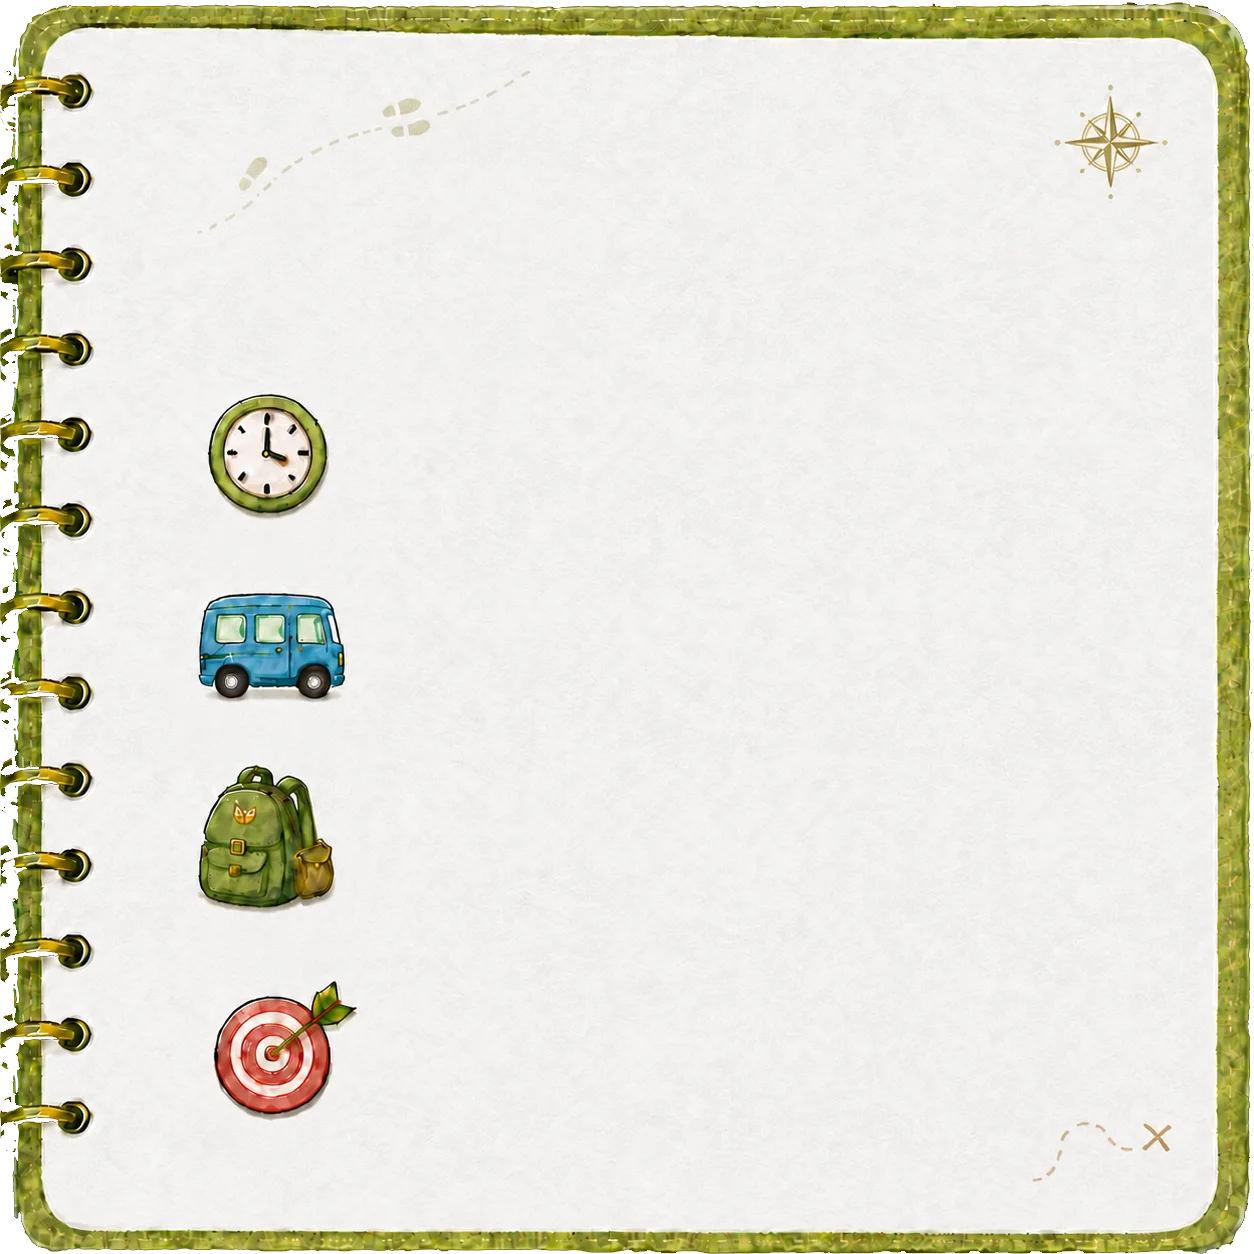
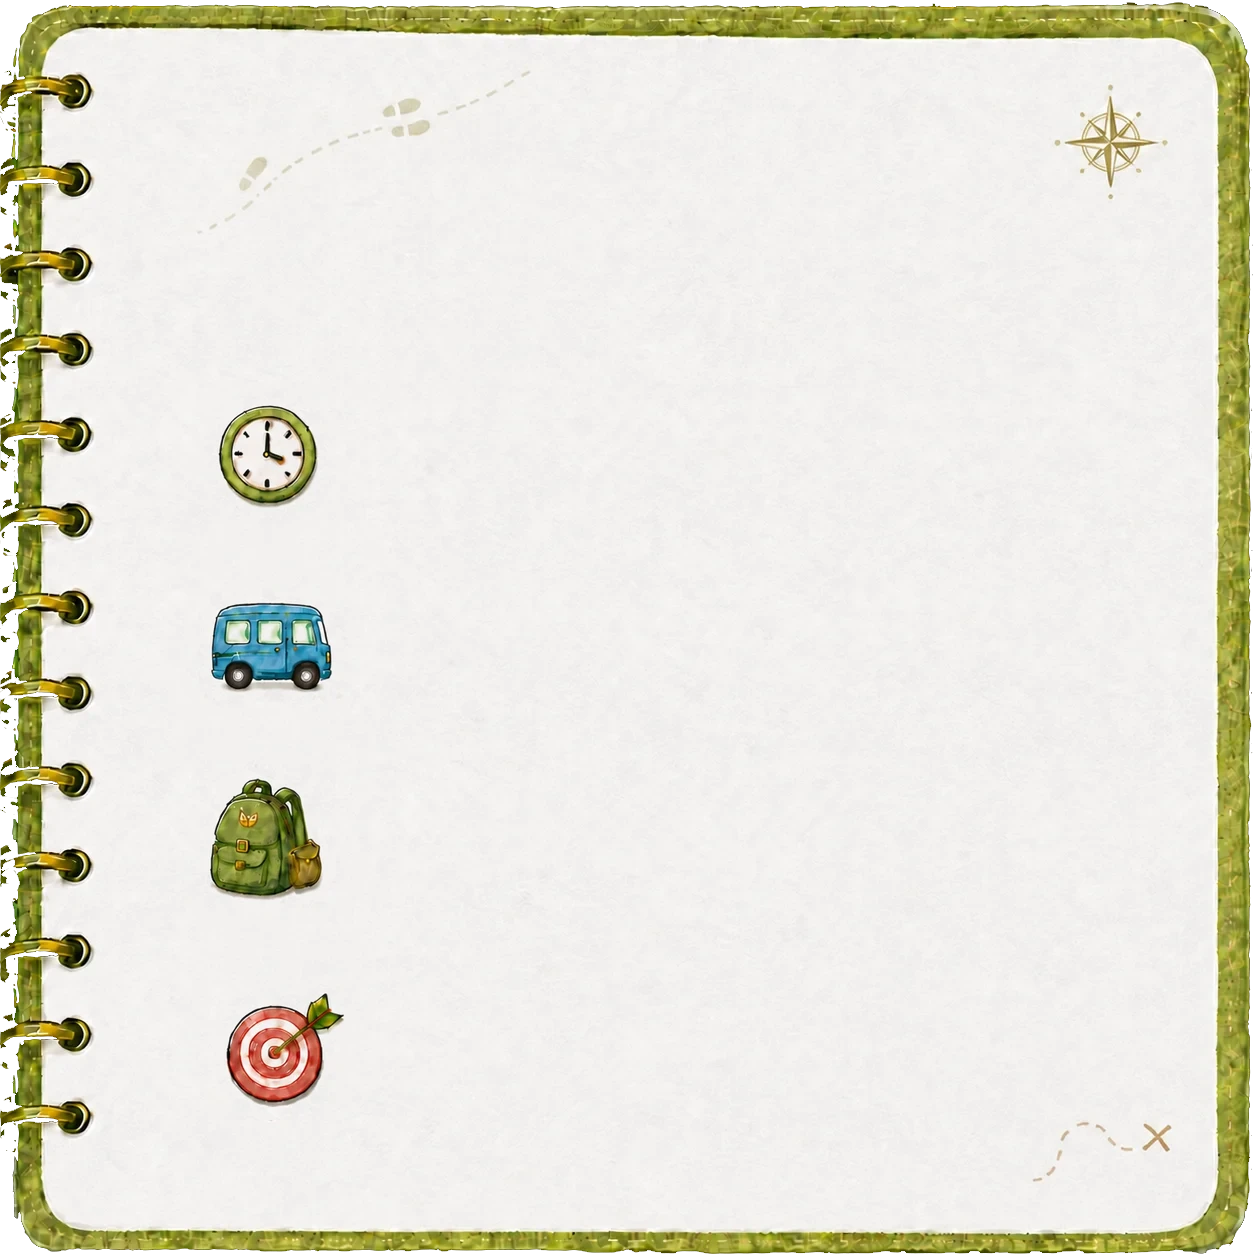
탐험일지 카드 시계·버스·가방·과녁 그림을 82%로 줄임 (#967)
네 그림은 일지 카드 원화에 박혀 있어 원화에서 떼어 각자 중심 기준으로 줄이고, 뗀 자리는 같은 줄 빈 종이로 메웠다. img ?v=2.

Claude-Session: https://claude.ai/code/session_018maNuYqDfFyRSe9uKpZhPR

diff --git a/src/components/AdventureJournalCard.jsx b/src/components/AdventureJournalCard.jsx
@@ -81,7 +81,7 @@ export default function AdventureJournalCard({
       style={{ position: "relative", width: "100%", aspectRatio: "1 / 1", marginBottom: 14, touchAction: "pan-y" }}>
 
       {/* v6 스프링 노트 원화 (1254×1254) — 왼쪽 아이콘 네 개만 있고 글자는 전부 앱이 얹는다 */}
-      <img src="assets/journal-card.webp" alt="" draggable={false}
+      <img src="assets/journal-card.webp?v=2" alt="" draggable={false}
         style={{ position: "absolute", inset: 0, width: "100%", height: "100%", display: "block",
           filter: "drop-shadow(0 6px 14px rgba(74,90,37,0.22))" }} />
 

diff --git a/art-src/README.md b/art-src/README.md
@@ -403,7 +403,7 @@ getBoundingClientRect로 재서 정한다. 2026-08-05 점검에서 이 기준을
 | map-bld-v9/cottage-src.webp | 지도 학원 건물 v9-2 (주황 기와 오두막 — 굴뚝·돌계단·항아리). 518×490 → 배포 340×322. 크림 원 뚫어서 탑재. cx 40.9 · cy 58.5 · d 38.9 · k 0.95 | map-bld-stonearch2.webp |
 | map-bld-v9/stall-src.webp | 지도 학원 건물 v9-3 (나무 가판대 — 청록 차양·랜턴·물통·나무통). 503×501 → 배포 340×339. 크림 원 뚫어서 탑재. cx 45.3 · cy 61.6 · d 37.0 · k 0.91 | map-bld-tent2.webp |
 | map-bld-v9/shell-src.webp | 지도 학원 건물 v9-4 (조개집 — 불가사리·산호·조개 계단). 521×489 → 배포 340×319. 크림 원 뚫어서 탑재. cx 42.5 · cy 58.8 · d 38.9 · k 0.96 | map-bld-tikihut2.webp |
-| journal-card-v6-src.webp | 모험일지 스프링 노트 원화 v6 (1254×1254 — 제본링·나침반·발자국 장식이 들어간 판. 왼쪽 세로줄에 아이콘 넷(시계·버스·배낭·과녁)만 있고 글자는 앱이 오른쪽에 얹는다. 모서리 검정→투명 펀칭 후 1254px q86 그대로 탑재, 현행) | journal-card.webp |
+| journal-card-v6-src.webp | 모험일지 스프링 노트 원화 v6 (1254×1254 — 제본링·나침반·발자국 장식이 들어간 판. 왼쪽 세로줄에 아이콘 넷(시계·버스·배낭·과녁)만 있고 글자는 앱이 오른쪽에 얹는다. 모서리 검정→투명 펀칭 후 1254px q86 그대로 탑재, 현행) — [2026-10-05] 사용자 요청으로 왼쪽 아이콘 넷(시계·버스·배낭·과녁)을 각자 중심 기준 82%로 줄여 탑재(뗀 자리는 같은 줄 빈 종이로 메움, img ?v=2). 원본은 이 파일 그대로 | journal-card.webp |
 | chest-open-v2.webp | 열린 보물상자 원화 v2 (도착 시 지도의 닫힌 상자 위에 덮어 그림) | chest-open.webp |
 | chest-patch.webp | 모래 텍스처 조각 (도착 시 배경의 '닫힌 상자'를 지우는 용도, 타원 마스크로 이음매 제거) | chest-patch.webp |
 | coin-front.webp | 금화 원화 정면 (상자 도착 연출, 뒤집히며 튀어오름) | coin-front.webp |
